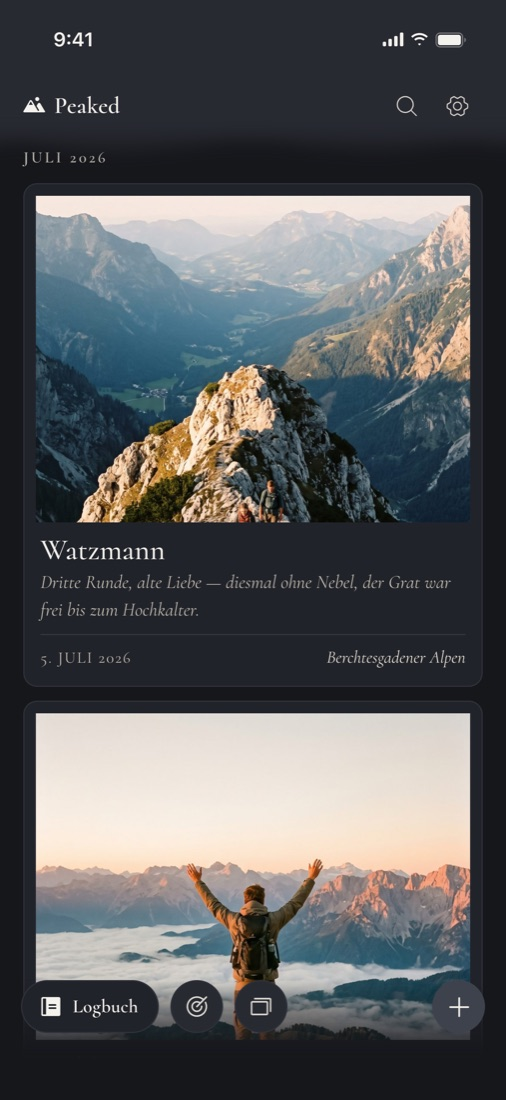
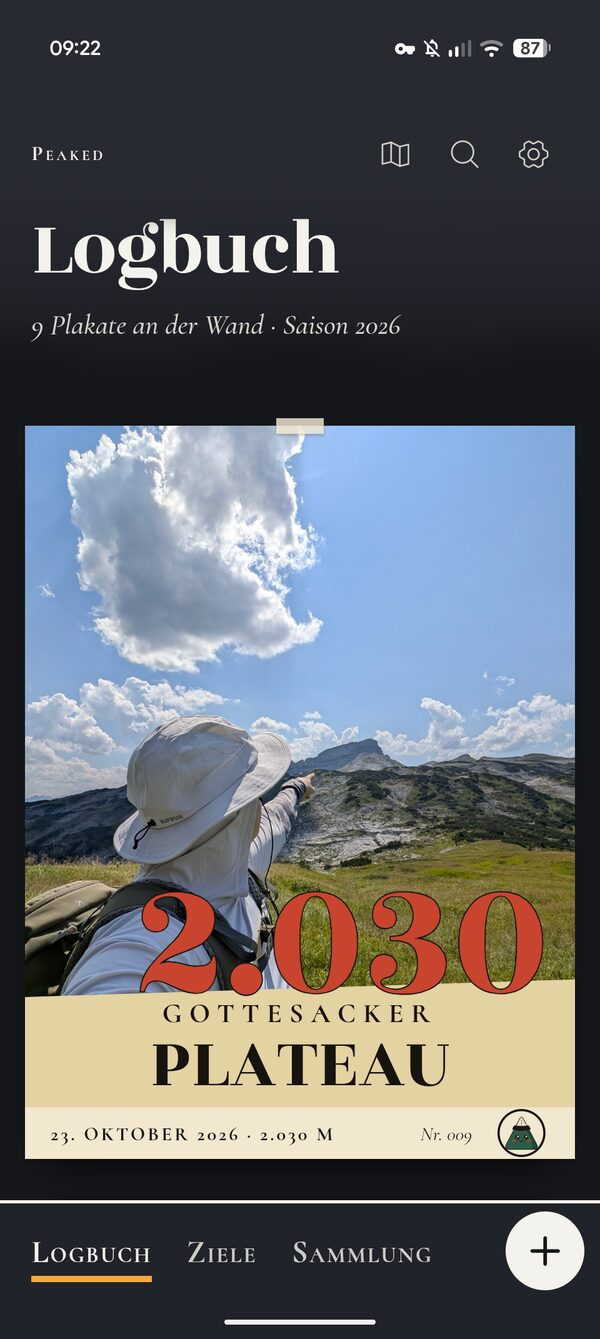
Peaked: neues App-Design, interaktives Handy mit Ansichten und Tag/Nacht
- neue Screenshots (Plakat, Wand, Ziele, jeweils hell und dunkel); Tour und Sammlung im alten Design entfernt
- unter dem Handy schweben Knöpfe: Plakat, Wand, Ziele und ein Tag/Nacht-Schalter, mit Überblendung
- bis zur ersten Wahl folgt die App dem Hell/Dunkel-Modus des Systems
- Handy im Format der neuen Screenshots, Kameraloch statt Dynamic Island
- Gipfel und Ringschrift umschließen Handy und Knöpfe; keine Ringschrift mehr unter dem Menü
- Peaked-Seite: Bilderreihe und Texte zum Plakat-Design

Claude-Session: https://claude.ai/code/session_01PGsaJpQGT8aZ1RVyNAXm7P

diff --git a/karte.js b/karte.js
@@ -240,8 +240,13 @@ void main() {
 }`;
 
 const canvas = $('.karte'), hm = $('.hoehenmesser'), hmWert = $('.hm-wert');
-const handy = $('.handy'), peaked = $('.peaked'), ringe = $('.ringschrift'), nebelgipfel = $('.nebelgipfel');
+const handy = $('.handy'), peaked = $('.peaked'), ringe = $('.ringschrift'), nebelgipfel = $('.nebelgipfel'), handySteuer = $('.handy-steuer');
 const buchTitel = $('#buch-titel');
+// the phone and the buttons floating below it stand on one summit: its middle, height, top and bottom
+function buehne() {
+  const p = handy.getBoundingClientRect(), unten = handySteuer?.offsetHeight ? handySteuer.getBoundingClientRect().bottom : p.bottom;
+  return [p.left + p.width / 2, (p.top + unten) / 2, unten - p.top, p.top, unten];
+}
 if (canvas) starteKarte();
 
 function starteKarte() {
@@ -302,7 +307,7 @@ function starteKarte() {
     S.mitteX = canvas.clientWidth / 2; S.mitteY = canvas.clientHeight / 2;
 
     if (dev) { const d = dev.getBoundingClientRect(); S.dev = [d.left + d.width / 2, d.top + d.height * .62, d.width * .95]; }
-    if (handy) { const p = handy.getBoundingClientRect(); S.peaked = [p.left + p.width / 2, p.top + p.height / 2, p.height * (innerWidth < 900 ? 1 : .8), 1.15]; } // phones: a wider summit, so its rings close around the phone
+    if (handy) { const [x, y, h] = buehne(); S.peaked = [x, y, h * (innerWidth < 900 ? 1 : .8), 1.15]; } // phones: a wider summit, so its rings close around the phone
     if (buchTitel) { const b = buchTitel.getBoundingClientRect(); S.buch = [b.left + b.width * .45, b.top + b.height / 2, Math.min(300, innerWidth * .34), .95]; }
 
     // small summits: grow in, sink out
@@ -382,7 +387,7 @@ function nachZeichnen() {
   }
   if (ringe && bild % 2 === 0) ringschrift();
 }
-const textBloecke = $$('.ruhe, .kopf, .knopf, dev-figur, .gipfelzeichen, .nebelgipfel, .eintragen, .handy, .fuss');
+const textBloecke = $$('.ruhe, .kopf, .knopf, dev-figur, .gipfelzeichen, .nebelgipfel, .eintragen, .handy, .handy-steuer, .fuss');
 const imText = (x, y) => textBloecke.some(el => { const b = el.getBoundingClientRect(); return x > b.left - 12 && x < b.right + 12 && y > b.top - 12 && y < b.bottom + 12; });
 
 // Contour lines around a dominant summit are star-shaped: walk outward along rays and find where each level is crossed.
@@ -422,12 +427,12 @@ let letzteStufen = []; // the levels labelled last time: kept while they still w
 function ringschrift() {
   const s = (peaked || handy.closest('.ort'))?.getBoundingClientRect();
   if (!s || s.bottom < 0 || s.top > innerHeight || !handy.offsetHeight) return;
-  const [cx, cy] = S.peaked, H = handy.offsetHeight, frei = H / 2 + 34, schmal = innerWidth < 900;
-  // usable rings: round enough and clear of the phone (on phones only the arc below it matters)
+  const [cx, cy] = S.peaked, [, , H, oben, unten] = buehne(), frei = cy - oben + 34, freiUnten = unten - cy + 30, schmal = innerWidth < 900;
+  // usable rings: round enough and clear of the phone and its buttons (on phones only the arc below it matters)
   const gut = ringe_um(cx, cy, H * 1.25).filter(Boolean).map(g => ({ ...g, rs: glaetten(g.rs) })).filter(({ rs }) => {
     let min = 1e9, max = 0;
     for (const r of rs) { min = Math.min(min, r); max = Math.max(max, r); }
-    return schmal ? min / max > .5 && rs[RAYS / 4] > frei : min / max > .58 && rs[RAYS * 3 / 4] > frei && rs[RAYS / 4] > frei;
+    return schmal ? min / max > .5 && rs[RAYS / 4] > freiUnten : min / max > .58 && rs[RAYS * 3 / 4] > frei && rs[RAYS / 4] > freiUnten;
   }).map(g => ({ ...g, mass: schmal ? g.rs[RAYS / 4] : g.rs.reduce((a, b) => a + b, 0) / RAYS }));
   const ziele = schmal ? [.66, .84] : [.7, .86];
   let genommen = letzteStufen.map(L => gut.find(g => Math.abs(g.L - L) < 1e-6)).filter(Boolean);
@@ -454,8 +459,10 @@ function ringschrift() {
     // the letters stand OUTSIDE the line: above it on the top arc, hanging below it on the bottom arc, so on a curve they
     // spread apart instead of crowding together; a label only goes where it has room
     const passt = (text, p) => text && textBreite(text) < laenge(p) * .8;
-    if (passt(o, oben)) svg += `<text${n === 0 ? ' class="warm"' : ''} dy="-4"><textPath href="#ring-${n}-o" startOffset="50%" text-anchor="middle">${o}</textPath></text>`;
-    if (passt(un, unten)) svg += `<text${n === 0 && !o ? ' class="warm"' : ''} dominant-baseline="hanging" dy="4"><textPath href="#ring-${n}-u" startOffset="50%" text-anchor="middle">${un}</textPath></text>`;
+    const obenFrei = cy - rs[RAYS * 3 / 4] > (kopf ? kopf.getBoundingClientRect().bottom : 0) + 30; // never tucked under the legend
+    const obenDa = obenFrei && passt(o, oben);
+    if (obenDa) svg += `<text${n === 0 ? ' class="warm"' : ''} dy="-4"><textPath href="#ring-${n}-o" startOffset="50%" text-anchor="middle">${o}</textPath></text>`;
+    if (passt(un, unten)) svg += `<text${n === 0 && !obenDa ? ' class="warm"' : ''} dominant-baseline="hanging" dy="4"><textPath href="#ring-${n}-u" startOffset="50%" text-anchor="middle">${un}</textPath></text>`;
   });
   ringe.innerHTML = svg;
 }
@@ -521,6 +528,50 @@ if (kippbar.length) {
   haupt.addEventListener('pointercancel', los);
   haupt.addEventListener('lostpointercapture', los);
   haupt.addEventListener('dragstart', e => e.preventDefault());
+}
+
+/* ---------- the phone's buttons: which screen of the app, and the app by day or by night ----------
+   Until the visitor picks, the app follows the system's light or dark mode, like the real one does. */
+for (const steuer of $$('.handy-steuer')) {
+  const bild = steuer.parentElement.querySelector('.bildschirm'), wahl = $('.screen-wahl', steuer), gleiter = $('.wahl-schlitten', steuer), modus = $('.modus-knopf', steuer);
+  const nacht = matchMedia('(prefers-color-scheme: dark)');
+  let dunkel = null; // null: follows the system
+  const zeigtDunkel = () => dunkel ?? nacht.matches;
+  const gleite = () => { const b = $('[aria-pressed="true"]', wahl); gleiter.style.width = b.offsetWidth + 'px'; gleiter.style.transform = `translateX(${b.offsetLeft}px)`; };
+  const modusZeigen = () => { const d = zeigtDunkel(); modus.setAttribute('aria-pressed', d); modus.setAttribute('aria-label', d ? 'App bei Nacht, zum Tag wechseln' : 'App bei Tag, zur Nacht wechseln'); };
+  // the old picture stays on top as a cover sheet and fades out once the new one is drawn
+  function blende(wechsel) {
+    const alt = $('.screen.an img', bild);
+    const deck = !ruhig && alt.complete && alt.naturalWidth ? Object.assign(alt.cloneNode(), { className: 'deckblatt', alt: '', loading: 'eager' }) : null;
+    if (deck) { deck.src = alt.currentSrc; bild.append(deck); }
+    wechsel();
+    if (!deck) return;
+    const neu = $('.screen.an img', bild);
+    let weg = false;
+    const ab = () => { if (weg) return; weg = true; deck.classList.add('weg'); setTimeout(() => deck.remove(), 500); };
+    // two frames: a changed <source> has been picked by then; a picture not loaded yet keeps the cover until it is
+    requestAnimationFrame(() => requestAnimationFrame(() => neu.complete && neu.naturalWidth ? ab() : neu.addEventListener('load', ab, { once: true })));
+    setTimeout(ab, 2000);
+  }
+  wahl.addEventListener('click', e => {
+    const b = e.target.closest('button');
+    if (!b || b.getAttribute('aria-pressed') === 'true') return;
+    blende(() => {
+      for (const k of $$('button', wahl)) k.setAttribute('aria-pressed', k === b);
+      for (const s of $$('.screen', bild)) { const an = s.dataset.screen === b.dataset.screen; s.classList.toggle('an', an); s.setAttribute('aria-hidden', !an); }
+    });
+    gleite();
+  });
+  modus.addEventListener('click', () => blende(() => {
+    dunkel = !zeigtDunkel();
+    for (const q of $$('source', bild)) q.media = dunkel ? 'all' : 'not all';
+    modusZeigen();
+  }));
+  nacht.addEventListener('change', modusZeigen);
+  steuer.hidden = false;
+  modusZeigen();
+  gleiter.style.transition = 'none'; gleite(); gleiter.offsetWidth; gleiter.style.transition = ''; // in place at once, glides from then on
+  new ResizeObserver(gleite).observe(wahl); // the webfont or a zoom changes the buttons' widths
 }
 
 /* ---------- the marked trail through the four rules ---------- */

diff --git a/stil.css b/stil.css
@@ -201,9 +201,10 @@ dev-figur > svg { display: block; width: 100%; height: 100%; }
 @media (min-width: 900px) { .peaked-gipfel { padding-block: 56px; } }
 /* the phone is a small object with depth: it leans toward the mouse, the phone's tilt sensor or a sideways swipe (karte.js) */
 .handy-buehne { perspective: 1100px; }
+.handy-buehne > .handy { margin-inline: auto; } /* the buttons below are wider than the phone */
 .handy {
   --kx: 0; --ky: 0;
-  position: relative; width: clamp(180px, 46vw, 236px); aspect-ratio: 506 / 1100; border-radius: 2.3rem; padding: 7px; background: #15161F;
+  position: relative; width: clamp(180px, 46vw, 236px); aspect-ratio: 600 / 1339; border-radius: 2.3rem; padding: 7px; background: #15161F;
   transform-style: preserve-3d; transform: rotateX(calc(var(--kx) * 1deg)) rotateY(calc(var(--ky) * 1deg));
   box-shadow: calc(var(--ky) * -1.4px) calc(30px + var(--kx) * 1.2px) 60px -26px rgb(5 18 14 / .55), inset 0 0 0 1.5px rgb(255 255 255 / .1);
   touch-action: pan-y; cursor: grab; -webkit-user-select: none; user-select: none;
@@ -213,13 +214,41 @@ dev-figur > svg { display: block; width: 100%; height: 100%; }
 }
 .bildschirm { position: relative; height: 100%; border-radius: 1.85rem; overflow: hidden; transform: translateZ(1px); }
 .handy img { display: block; width: 100%; height: 100%; object-fit: cover; border-radius: 1.85rem; -webkit-user-drag: none; }
-/* the Dynamic Island between clock and battery, measured on the iPhone screenshot: 28 % wide, 1.2 % from the top */
-.bildschirm::before { content: ""; position: absolute; z-index: 2; left: 50%; top: 1.15%; width: 28.4%; height: 3.85%; translate: -50% 0; border-radius: 999px; background: #050507; }
+/* the screens of the app lie on top of each other; the one shown has .an. The old one stays on top as a cover sheet
+   (.deckblatt) and fades out once the new picture is drawn, so day and night cross-fade too (karte.js) */
+.bildschirm .screen { position: absolute; inset: 0; visibility: hidden; }
+.bildschirm .screen.an { visibility: visible; }
+.deckblatt { position: absolute; inset: 0; z-index: 1; pointer-events: none; transition: opacity .42s cubic-bezier(.22, 1, .36, 1), scale .42s cubic-bezier(.22, 1, .36, 1); }
+.deckblatt.weg { opacity: 0; scale: 1.025; }
+/* the camera hole between clock and battery, measured on the Android screenshot: 3.3 % from the top */
+.bildschirm::before { content: ""; position: absolute; z-index: 2; left: 50%; top: 3.3%; width: 4%; aspect-ratio: 1; translate: -50% -50%; border-radius: 50%; background: #050507; }
 .bildschirm::after { /* light that glides over the glass as the phone tilts */
   content: ""; position: absolute; z-index: 3; inset: -20%; pointer-events: none;
   background: linear-gradient(115deg, transparent 38%, rgb(255 255 255 / .16) 48%, transparent 58%);
   transform: translateX(calc(var(--ky) * 1.6%)) translateY(calc(var(--kx) * -1%)); opacity: calc(.35 + (var(--ky) * var(--ky) + var(--kx) * var(--kx)) / 300);
 }
+/* floating below the phone: which screen of the app, and day or night. Built like the legend: a pill with a sliding mark */
+.handy-steuer { position: relative; z-index: 2; display: grid; grid-template-columns: 1fr auto 1fr; align-items: center; gap: 10px; margin-top: 28px; animation: schweben 5s ease-in-out infinite; }
+.handy-steuer[hidden] { display: none; }
+.handy-steuer .screen-wahl { grid-column: 2; } /* the pill sits centred under the phone, day and night beside it */
+.handy-steuer .modus-knopf { justify-self: start; }
+@keyframes schweben { 50% { translate: 0 -4px; } }
+.screen-wahl, .modus-knopf { background: var(--grund); border: 1px solid var(--rand); box-shadow: 0 16px 30px -20px rgb(5 18 14 / .55); }
+.screen-wahl { position: relative; display: flex; gap: 2px; padding: 4px; border-radius: 999px; }
+.screen-wahl button {
+  position: relative; z-index: 1; min-height: 40px; padding: 0 15px; border: 0; border-radius: 999px; background: none;
+  color: var(--text); font: 600 .9375rem/1 var(--sans); cursor: pointer; transition: color .35s; -webkit-tap-highlight-color: transparent;
+}
+.screen-wahl button[aria-pressed="true"] { color: var(--grund); }
+.wahl-schlitten { position: absolute; z-index: 0; top: 4px; bottom: 4px; left: 0; width: 0; border-radius: 999px; background: var(--linie-text); transition: transform .5s cubic-bezier(.22, 1, .36, 1), width .5s cubic-bezier(.22, 1, .36, 1); }
+.modus-knopf { display: grid; place-items: center; width: 50px; height: 50px; padding: 0; border-radius: 50%; color: var(--text); cursor: pointer; -webkit-tap-highlight-color: transparent; }
+.modus-knopf svg { width: 22px; height: 22px; overflow: visible; fill: none; stroke: currentColor; stroke-width: 1.8; stroke-linecap: round; stroke-linejoin: round; }
+.modus-knopf .sonne, .modus-knopf .mond { transform-origin: 12px 12px; transition: opacity .35s, transform .5s cubic-bezier(.22, 1, .36, 1); }
+.modus-knopf .mond { opacity: 0; transform: rotate(-70deg) scale(.5); }
+.modus-knopf[aria-pressed="true"] .sonne { opacity: 0; transform: rotate(70deg) scale(.5); }
+.modus-knopf[aria-pressed="true"] .mond { opacity: 1; transform: none; }
+.screen-wahl button:hover, .modus-knopf:hover { color: var(--linie-text); }
+.screen-wahl button[aria-pressed="true"]:hover { color: var(--grund); }
 .ringschrift { position: absolute; inset: 0; width: 100%; height: 100%; z-index: 1; pointer-events: none; overflow: visible; }
 .ringschrift text { font: 650 15px var(--sans); letter-spacing: .1em; fill: var(--linie-text); stroke: var(--grund); stroke-width: 6px; stroke-linejoin: round; paint-order: stroke fill; }
 .ringschrift text.warm { fill: var(--aktion); }
@@ -363,7 +392,7 @@ dev-figur > svg { display: block; width: 100%; height: 100%; }
 .hinweis p { color: var(--text); }
 
 /* Peaked page: the screens of the app, side by side like a row of summits */
-.screens { list-style: none; margin: 0; padding: 0; display: grid; grid-template-columns: repeat(4, minmax(0, 1fr)); gap: clamp(16px, 3vw, 36px); align-items: start; }
+.screens { list-style: none; margin: 0; padding: 0; display: grid; grid-template-columns: repeat(3, minmax(0, 1fr)); gap: clamp(16px, 3vw, 36px); align-items: start; }
 .screens li { display: grid; gap: 14px; justify-items: center; text-align: center; }
 .screens .handy { width: min(100%, 210px); border-radius: 1.9rem; padding: 6px; }
 .screens .bildschirm, .screens .handy img { border-radius: 1.5rem; }
@@ -396,4 +425,6 @@ dev-figur > svg { display: block; width: 100%; height: 100%; }
   html { scroll-behavior: auto; }
   .gm, .gm.weg, .knopf, .schlitten { animation: none; transition: none; }
   .handy { transform: none; }
+  .handy-steuer { animation: none; }
+  .deckblatt, .wahl-schlitten, .modus-knopf .sonne, .modus-knopf .mond { transition: none; }
 }

diff --git a/peaked/index.html b/peaked/index.html
@@ -53,11 +53,31 @@
   <div class="peaked-gipfel handy-buehne">
     <div class="handy">
       <div class="bildschirm">
-        <picture>
+        <picture class="screen an" data-screen="logbuch">
           <source srcset="../assets/peaked-logbuch-dunkel.jpg" media="(prefers-color-scheme: dark)">
-          <img src="../assets/peaked-logbuch.jpg" alt="Peaked: das Logbuch mit dem Watzmann als letzter Tour" width="506" height="1100" draggable="false">
+          <img src="../assets/peaked-logbuch.jpg" alt="Peaked im Logbuch: das Gottesacker-Plateau als neuestes Plakat" width="600" height="1339" draggable="false">
+        </picture>
+        <picture class="screen" data-screen="wand" aria-hidden="true">
+          <source srcset="../assets/peaked-wand-dunkel.jpg" media="(prefers-color-scheme: dark)">
+          <img src="../assets/peaked-wand.jpg" alt="Peaked: alle Plakate der Saison an der Wand, vom Nebelhorn bis zum Säntis" width="600" height="1339" draggable="false">
+        </picture>
+        <picture class="screen" data-screen="ziele" aria-hidden="true">
+          <source srcset="../assets/peaked-ziele-dunkel.jpg" media="(prefers-color-scheme: dark)">
+          <img src="../assets/peaked-ziele.jpg" alt="Peaked bei den Zielen: die Serles als Gipfel der Woche und das Saisonziel als Fahrschein" width="600" height="1339" draggable="false">
         </picture>
       </div>
+    </div>
+    <!-- floats below the phone: which screen of the app, and the app by day or by night (karte.js) -->
+    <div class="handy-steuer" hidden>
+      <div class="screen-wahl" role="group" aria-label="Bildschirm der App">
+        <span class="wahl-schlitten" aria-hidden="true"></span>
+        <button type="button" data-screen="logbuch" aria-pressed="true">Plakat</button>
+        <button type="button" data-screen="wand" aria-pressed="false">Wand</button>
+        <button type="button" data-screen="ziele" aria-pressed="false">Ziele</button>
+      </div>
+      <button class="modus-knopf" type="button" aria-pressed="false" aria-label="App bei Nacht zeigen" title="Tag oder Nacht" data-dev-sagt="Peaked kann auch Nacht.">
+        <svg viewBox="0 0 24 24" aria-hidden="true"><g class="sonne"><circle cx="12" cy="12" r="4.2"/><path d="M12 2.5v2.2M12 19.3v2.2M2.5 12h2.2M19.3 12h2.2M5.3 5.3l1.6 1.6M17.1 17.1l1.6 1.6M5.3 18.7l1.6-1.6M17.1 6.9l1.6-1.6"/></g><path class="mond" d="M19.5 14.6A8 8 0 0 1 9.4 4.5a8 8 0 1 0 10.1 10.1Z"/></svg>
+      </button>
     </div>
   </div>
   <svg class="ringschrift" aria-hidden="true"></svg>
@@ -71,20 +91,16 @@
   </div>
   <ul class="screens">
     <li>
-      <div class="handy"><div class="bildschirm"><picture><source srcset="../assets/peaked-logbuch-dunkel.jpg" media="(prefers-color-scheme: dark)"><img src="../assets/peaked-logbuch.jpg" alt="Das Logbuch: jede Tour mit Foto, Bergname und einer Zeile zum Tag" width="506" height="1100" loading="lazy" draggable="false"></picture></div></div>
-      <h3>Logbuch</h3><p>Jede Tour wird ein Polaroid: Foto, Bergname, eine Zeile zum Tag.</p>
+      <div class="handy"><div class="bildschirm"><picture><source srcset="../assets/peaked-logbuch-dunkel.jpg" media="(prefers-color-scheme: dark)"><img src="../assets/peaked-logbuch.jpg" alt="Ein Plakat aus dem Logbuch: das Gottesacker-Plateau mit Foto, Höhe und Datum" width="600" height="1339" loading="lazy" draggable="false"></picture></div></div>
+      <h3>Plakat</h3><p>Jede Tour wird ein Plakat: dein Foto, der Berg groß gesetzt, darunter Datum, Höhe und eine laufende Nummer.</p>
     </li>
     <li>
-      <div class="handy"><div class="bildschirm"><picture><source srcset="../assets/peaked-tour-dunkel.jpg" media="(prefers-color-scheme: dark)"><img src="../assets/peaked-tour.jpg" alt="Die Seite zur Tour: Watzmann mit Strecke, Höhenmetern und Berggedächtnis" width="506" height="1100" loading="lazy" draggable="false"></picture></div></div>
-      <h3>Die Seite zur Tour</h3><p>Foto, Routen-Unterschrift und deine Worte. Das Berggedächtnis weiß, wann du schon oben warst.</p>
+      <div class="handy"><div class="bildschirm"><picture><source srcset="../assets/peaked-wand-dunkel.jpg" media="(prefers-color-scheme: dark)"><img src="../assets/peaked-wand.jpg" alt="Die Wand: alle Plakate der Saison 2026 nebeneinander" width="600" height="1339" loading="lazy" draggable="false"></picture></div></div>
+      <h3>Wand</h3><p>Deine Plakate hängen nebeneinander an der Wand, vom ersten Gipfel der Saison bis zum letzten.</p>
     </li>
     <li>
-      <div class="handy"><div class="bildschirm"><picture><source srcset="../assets/peaked-ziele-dunkel.jpg" media="(prefers-color-scheme: dark)"><img src="../assets/peaked-ziele.jpg" alt="Ziele: Gipfel der Woche und das Saisonziel" width="506" height="1100" loading="lazy" draggable="false"></picture></div></div>
-      <h3>Ziele</h3><p>Gipfellisten für Allgäu, Karwendel, Dolomiten und mehr, dazu ein Saisonziel und jede Woche ein Gipfel aus deiner Region.</p>
-    </li>
-    <li>
-      <div class="handy"><div class="bildschirm"><picture><source srcset="../assets/peaked-sammlung-dunkel.jpg" media="(prefers-color-scheme: dark)"><img src="../assets/peaked-sammlung.jpg" alt="Sammlung: die Saison 2026 als Poster mit dem höchsten Gipfel" width="506" height="1100" loading="lazy" draggable="false"></picture></div></div>
-      <h3>Sammlung</h3><p>Deine Saison als Poster, Abzeichen aus deinen eigenen Touren und ein Rückblick aufs Jahr.</p>
+      <div class="handy"><div class="bildschirm"><picture><source srcset="../assets/peaked-ziele-dunkel.jpg" media="(prefers-color-scheme: dark)"><img src="../assets/peaked-ziele.jpg" alt="Ziele: die Serles als Gipfel der Woche und das Saisonziel als Fahrschein" width="600" height="1339" loading="lazy" draggable="false"></picture></div></div>
+      <h3>Ziele</h3><p>Jede Woche ein Gipfel aus deiner Region, Gipfellisten für Allgäu, Karwendel, Dolomiten und mehr, und ein Saisonziel als Fahrschein, in den jeder Gipfel ein Loch knipst.</p>
     </li>
   </ul>
 </section>

diff --git a/index.html b/index.html
@@ -108,11 +108,31 @@
   <div class="peaked-gipfel handy-buehne">
     <div class="handy">
       <div class="bildschirm">
-        <picture>
+        <picture class="screen an" data-screen="logbuch">
           <source srcset="assets/peaked-logbuch-dunkel.jpg" media="(prefers-color-scheme: dark)">
-          <img src="assets/peaked-logbuch.jpg" alt="Peaked: das Logbuch mit dem Watzmann als letzter Tour" width="506" height="1100" loading="lazy" draggable="false">
+          <img src="assets/peaked-logbuch.jpg" alt="Peaked im Logbuch: das Gottesacker-Plateau als neuestes Plakat" width="600" height="1339" loading="lazy" draggable="false">
+        </picture>
+        <picture class="screen" data-screen="wand" aria-hidden="true">
+          <source srcset="assets/peaked-wand-dunkel.jpg" media="(prefers-color-scheme: dark)">
+          <img src="assets/peaked-wand.jpg" alt="Peaked: alle Plakate der Saison an der Wand, vom Nebelhorn bis zum Säntis" width="600" height="1339" loading="lazy" draggable="false">
+        </picture>
+        <picture class="screen" data-screen="ziele" aria-hidden="true">
+          <source srcset="assets/peaked-ziele-dunkel.jpg" media="(prefers-color-scheme: dark)">
+          <img src="assets/peaked-ziele.jpg" alt="Peaked bei den Zielen: die Serles als Gipfel der Woche und das Saisonziel als Fahrschein" width="600" height="1339" loading="lazy" draggable="false">
         </picture>
       </div>
+    </div>
+    <!-- floats below the phone: which screen of the app, and the app by day or by night (karte.js) -->
+    <div class="handy-steuer" hidden>
+      <div class="screen-wahl" role="group" aria-label="Bildschirm der App">
+        <span class="wahl-schlitten" aria-hidden="true"></span>
+        <button type="button" data-screen="logbuch" aria-pressed="true">Plakat</button>
+        <button type="button" data-screen="wand" aria-pressed="false">Wand</button>
+        <button type="button" data-screen="ziele" aria-pressed="false">Ziele</button>
+      </div>
+      <button class="modus-knopf" type="button" aria-pressed="false" aria-label="App bei Nacht zeigen" title="Tag oder Nacht" data-dev-sagt="Peaked kann auch Nacht.">
+        <svg viewBox="0 0 24 24" aria-hidden="true"><g class="sonne"><circle cx="12" cy="12" r="4.2"/><path d="M12 2.5v2.2M12 19.3v2.2M2.5 12h2.2M19.3 12h2.2M5.3 5.3l1.6 1.6M17.1 17.1l1.6 1.6M5.3 18.7l1.6-1.6M17.1 6.9l1.6-1.6"/></g><path class="mond" d="M19.5 14.6A8 8 0 0 1 9.4 4.5a8 8 0 1 0 10.1 10.1Z"/></svg>
+      </button>
     </div>
   </div>
   <svg class="ringschrift" aria-hidden="true"></svg>
